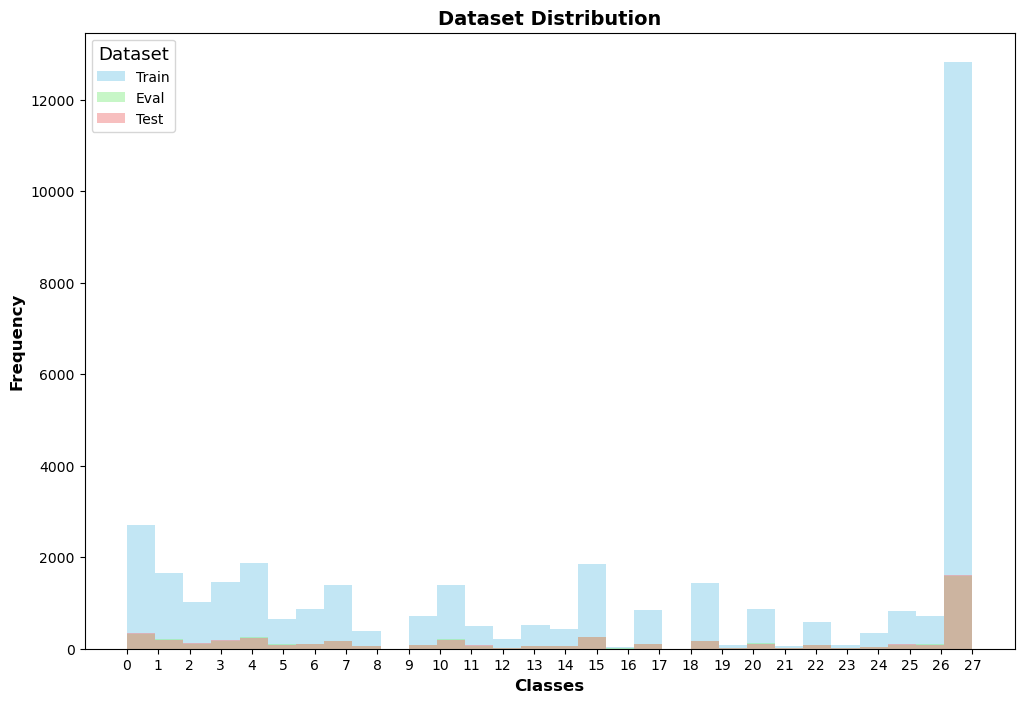
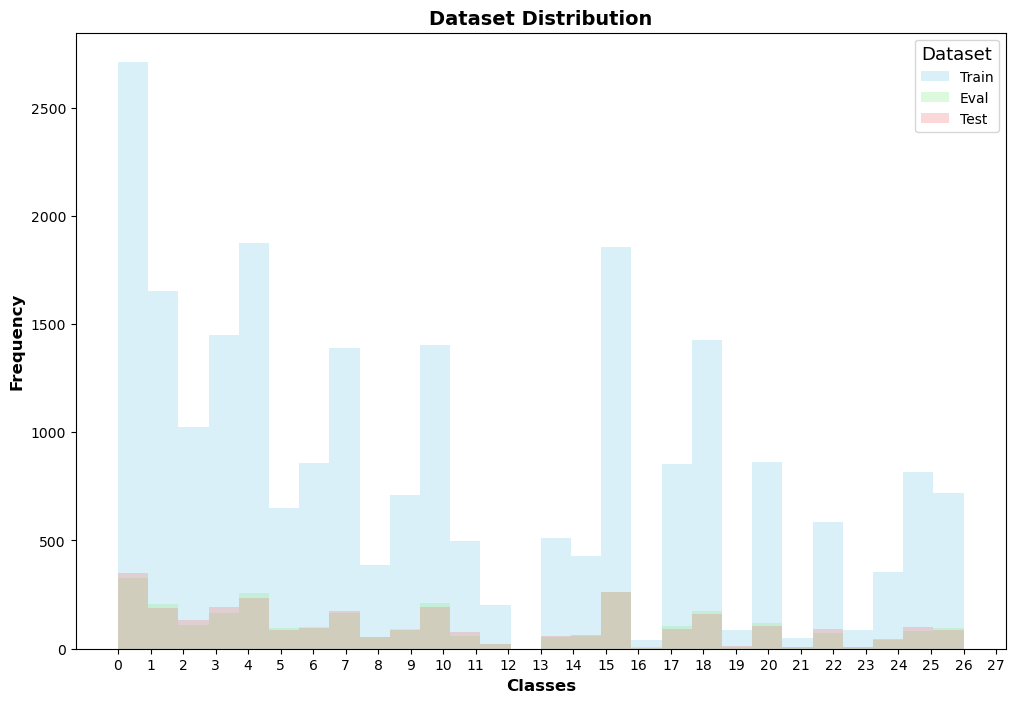
Fixed Accuracy

Changed region(s): [[0.0305, 0.0597, 0.9773, 0.9858], [0.4276, 0.0, 0.6414, 0.0597]]

diff --git a/src/Utils.py b/src/Utils.py
@@ -36,14 +36,15 @@ def get_single_label_dataset():
     """
     # Filter the dataset to only include examples with a single label
     filter_single_label = lambda example: len(example["labels"]) == 1
+    filter_single_27 = lambda example: 27 not in example["labels"]
 
     # Load the dataset
     ds_train, ds_validation, ds_test = get_go_emotions_dataset()
 
     # Filter the dataset
-    ds_train = ds_train.filter(filter_single_label)
-    ds_validation = ds_validation.filter(filter_single_label)
-    ds_test = ds_test.filter(filter_single_label)
+    ds_train = ds_train.filter(filter_single_label).filter(filter_single_27)
+    ds_validation = ds_validation.filter(filter_single_label).filter(filter_single_27)
+    ds_test = ds_test.filter(filter_single_label).filter(filter_single_27)
 
     #ds_train = undersample_features(ds_train)
     #ds_train = oversample_dataset(ds_train)
@@ -96,7 +97,7 @@ def load_model_and_tokenizer(model_path: str) -> tuple:
     tokenizer.pad_token = tokenizer.eos_token
 
     model = AutoModelForSequenceClassification.from_pretrained(
-        model_path, num_labels=28, pad_token_id=tokenizer.pad_token_id
+        model_path, num_labels=27, pad_token_id=tokenizer.pad_token_id
     )
     return tokenizer, model
 
@@ -120,7 +121,7 @@ def tokenize_dataset(dataset, tokenizer):
             batch["text"],
             padding="max_length",  # Pad shorter sequences
             truncation=True,  # Truncate longer sequences
-            max_length=128,  # Maximum sequence length
+            max_length=25,  # Maximum sequence length
             return_tensors="pt",  # Return PyTorch tensors
         )
         tokenized["labels"] = batch["labels"]  # Directly assign the batch of labels
@@ -171,3 +172,6 @@ def format_datasets_for_pytorch(tokenized_train, tokenized_validation, tokenized
     eval_dataset = format_dataset_for_pytorch(tokenized_validation)
     test_dataset = format_dataset_for_pytorch(tokenized_test)
     return train_dataset, eval_dataset, test_dataset
+
+
+    

diff --git a/src/LLM.py b/src/LLM.py
@@ -27,10 +27,9 @@ def train_model_trainer(
     model,
     train_dataset,
     eval_dataset,
-    output_dir="./Output",
-    num_train_epochs=3,
+    num_train_epochs=4,
     per_device_train_batch_size=16,
-    learning_rate=5e-5,
+    learning_rate=1e-5,
 ):
     """
     Train the model with the given dataset and training arguments using the Trainer API.
@@ -50,14 +49,16 @@ def train_model_trainer(
     """
 
     training_args = TrainingArguments(
-        output_dir=output_dir,
         eval_strategy="epoch",
         num_train_epochs=num_train_epochs,
         per_device_train_batch_size=per_device_train_batch_size,
         learning_rate=learning_rate,
-        logging_dir=None,  
+        output_dir="./output",
+        save_strategy="no",  # Disable saving checkpoints
+        logging_dir=None,  # Disable logging
+
     )
-    model = freeze_model_except_last_layer(model)
+    #model = freeze_model_except_last_layer(model)
     
     trainer = Trainer(
         model=model,
@@ -72,7 +73,7 @@ def train_model_trainer(
 
 
 def predict_trainer(
-    model, dataset, batch_size=16, output_dir="./Output"
+    model, dataset, batch_size=16, output_dir="./output"
 ):
     """
     Make predictions using the model on the given dataset using the Trainer API.
@@ -88,14 +89,18 @@ def predict_trainer(
 
     training_args = TrainingArguments(
         output_dir=output_dir,
+        save_strategy="no",  # Disable saving checkpoints
         per_device_eval_batch_size=batch_size,
         logging_dir=None,  
     )
+    
     model = model.eval()
+    
     trainer = Trainer(
         model=model,
         args=training_args,
     )
 
     predictions = trainer.predict(dataset)
+    print(predictions)
     return predictions.predictions.argmax(axis=-1)

diff --git a/src/Distilled-GPT2/PrepareDataset.py b/src/Distilled-GPT2/PrepareDataset.py
@@ -3,6 +3,7 @@ import torch  # type: ignore
 import os
 import sys
 from datasets import Dataset  # type: ignore
+from sklearn.metrics import accuracy_score # type: ignore
 
 
 # Add the path to the parent directory to augment search for module
@@ -47,8 +48,10 @@ def prepare_datasets(tokenizer):
 
 
 def compute_accuracy(prediction, labels, model_name):
-    accuracy = np.mean(np.array(prediction) == np.array(labels))
+    accuracy = accuracy_score(labels, prediction)
     print(f"Accuracy {model_name}: {accuracy}")
+    return accuracy
+    
 
 
 
@@ -59,11 +62,14 @@ if __name__ == "__main__":
 
     train_dataset, eval_dataset, test_dataset = prepare_datasets(tokenizer)
 
+    print(len(test_dataset["labels"]))
+
+
     plot_distribution_of_datasets(
         train_dataset, eval_dataset, test_dataset, saving_path=SAVING_PATH
     )
 
-    untrainded_model_prediction =  predict_trainer(model, test_dataset, batch_size=32)
+    untrainded_model_prediction =  predict_trainer(model, test_dataset, batch_size=16)
     
     trained_model = train_model_trainer(model, train_dataset,eval_dataset=eval_dataset)
     

diff --git a/src/PlotHelper.py b/src/PlotHelper.py
@@ -18,9 +18,9 @@ def plot_distribution_of_datasets(train_dataset, eval_dataset, test_dataset, sav
     eval_dataset_labels = eval_dataset["labels"]
     test_dataset_labels = test_dataset["labels"]
     
-    plt.hist(train_dataset_labels, bins=30, alpha=0.5, label="Train", color="skyblue")
-    plt.hist(eval_dataset_labels, bins=30, alpha=0.5, label="Eval", color="lightgreen")
-    plt.hist(test_dataset_labels, bins=30, alpha=0.5, label="Test", color="lightcoral")
+    plt.hist(train_dataset_labels, bins=28, alpha=0.3, label="Train", color="skyblue")
+    plt.hist(eval_dataset_labels, bins=28, alpha=0.3, label="Eval", color="lightgreen")
+    plt.hist(test_dataset_labels, bins=28, alpha=0.3, label="Test", color="lightcoral")
     
 
     plt.xticks(range(28))
